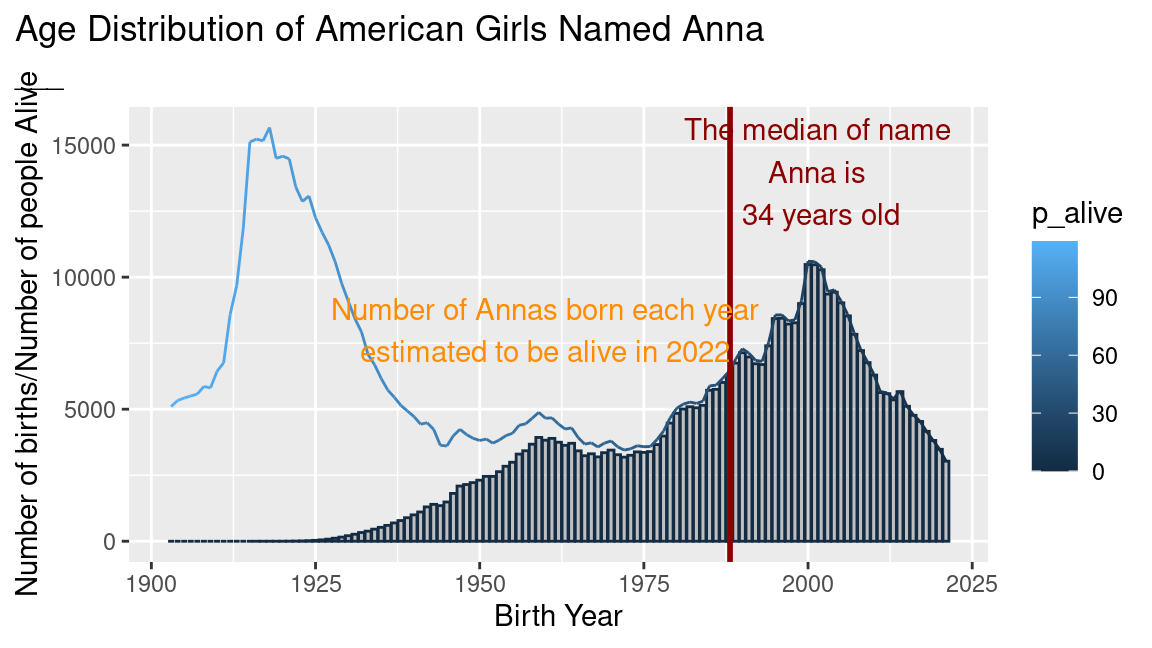
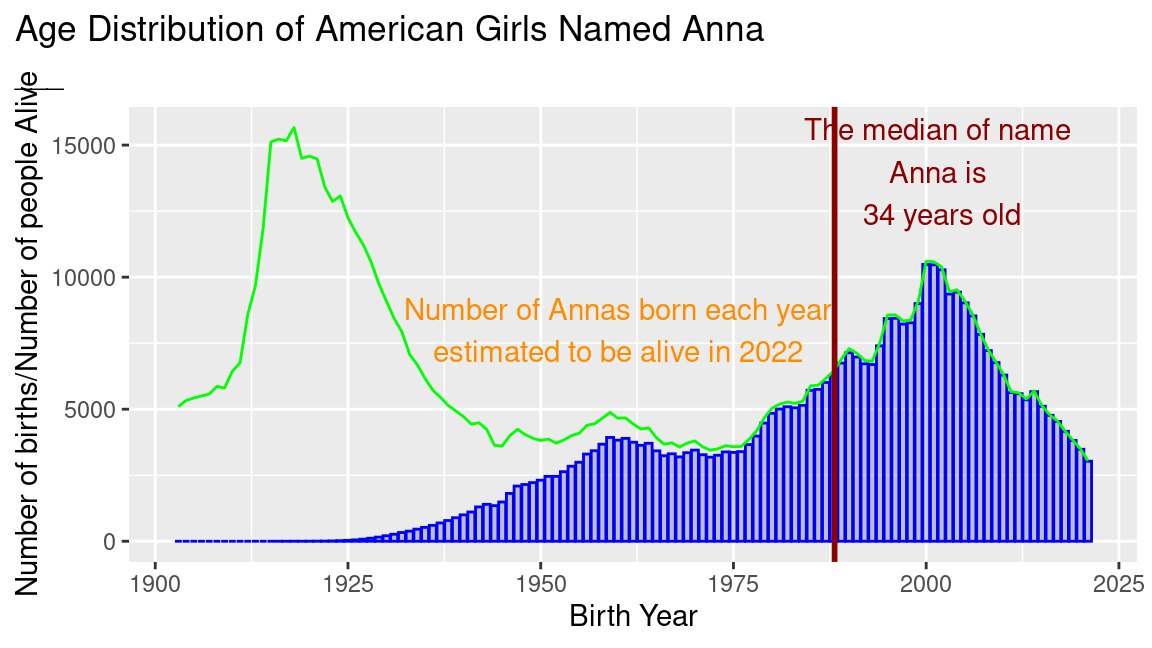
updated visualization for project 02

diff --git a/projects/project-02/project-02-estimate-age-from-name.md b/projects/project-02/project-02-estimate-age-from-name.md
@@ -366,9 +366,9 @@ plot_estimated_age <- function(tbl, my_name, my_sex) {
     # Initialize a ggplot with x = year
     ggplot(aes(x=year))+
     # Add a column layer with y = nb_alive, and appropriate colors
-    geom_col(aes(y=nb_alive, color=p_alive), alpha=0.3)+
+    geom_col(aes(y=nb_alive), color="blue", alpha=0.3)+
     # Add a line layer with y = nb_births, and appropriate colors
-    geom_line(aes(y=nb_births, color=age))+
+    geom_line(aes(y=nb_births), color="green")+
     # Add a vertical line for the median age
     geom_vline(
       aes(xintercept = 2022 - age_median), 
@@ -506,8 +506,8 @@ tbl_names_extended_age |>
   geom_point(size = 2, color = "red") +
   # Add labels (title, subtitle, x, y)
   labs(
-    title = "The range for 25% to 75% of Age for Names (Females)",
-    subtitle = "Sorted by Median Age",
+    title = "Median Ages for Females with the 25 Most Common Names",
+    subtitle = "Among Americans Estimated to Be Alive",
     x = "Age",
     y = "Name"
   ) +
